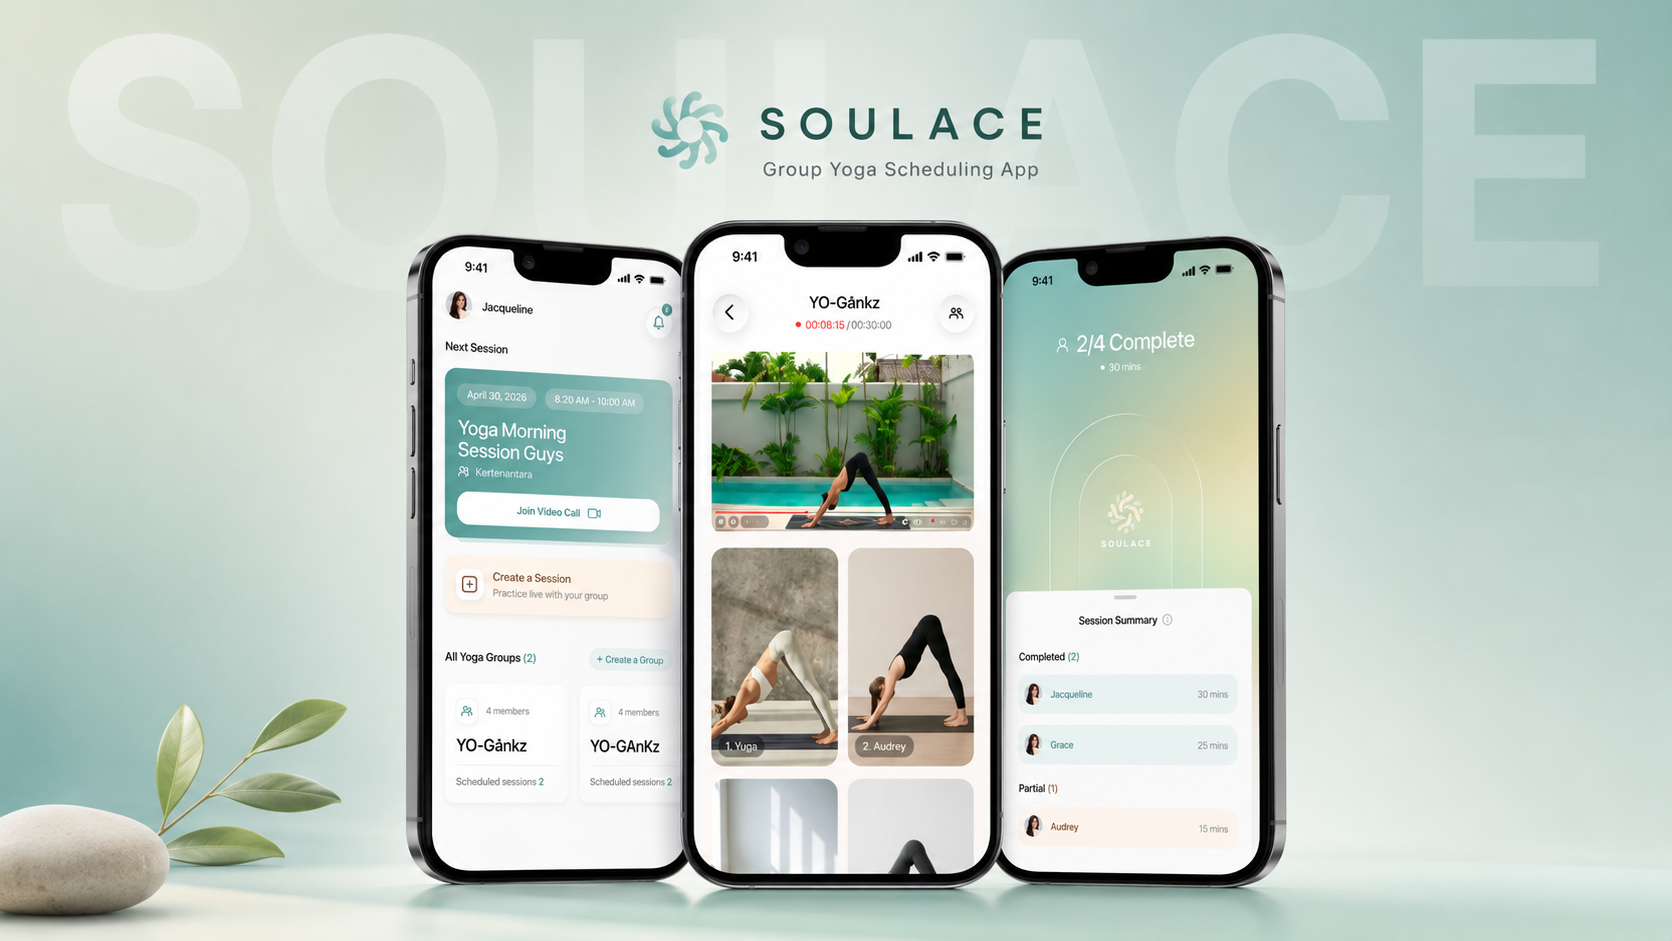
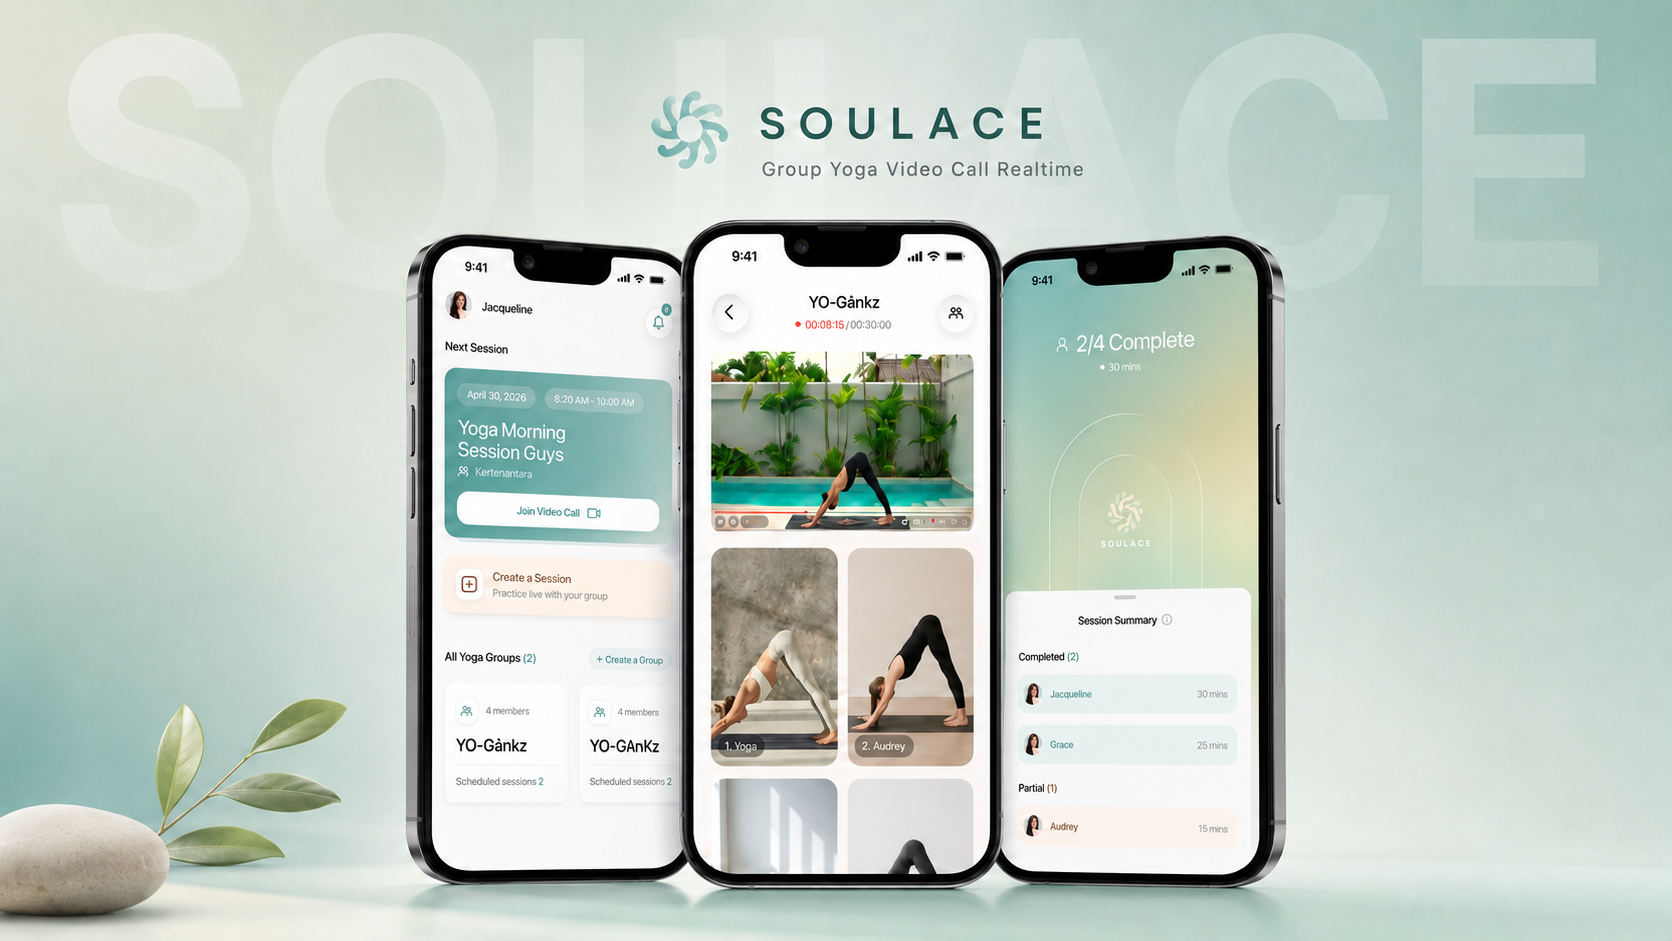
project fix

diff --git a/src/data/profile.ts b/src/data/profile.ts
@@ -202,6 +202,16 @@ export const profile = {
     image: "/images/projects/soulace.png"
   },
   {
+    title: "Soulace",
+    category: "iOS App Concept",
+    description:
+      "A group yoga scheduling app concept that helps users create sessions, invite friends, and coordinate practice more easily.",
+    impact:
+      "Explored user flow, scheduling behavior, SwiftUI interface structure, and Apple Human Interface Guidelines.",
+    tags: ["SwiftUI", "HIG", "Product Design", "iOS"],
+    image: "/images/projects/soulace2.png"
+  },
+  {
     title: "SisaBaik",
     category: "iOS App Concept",
     description: